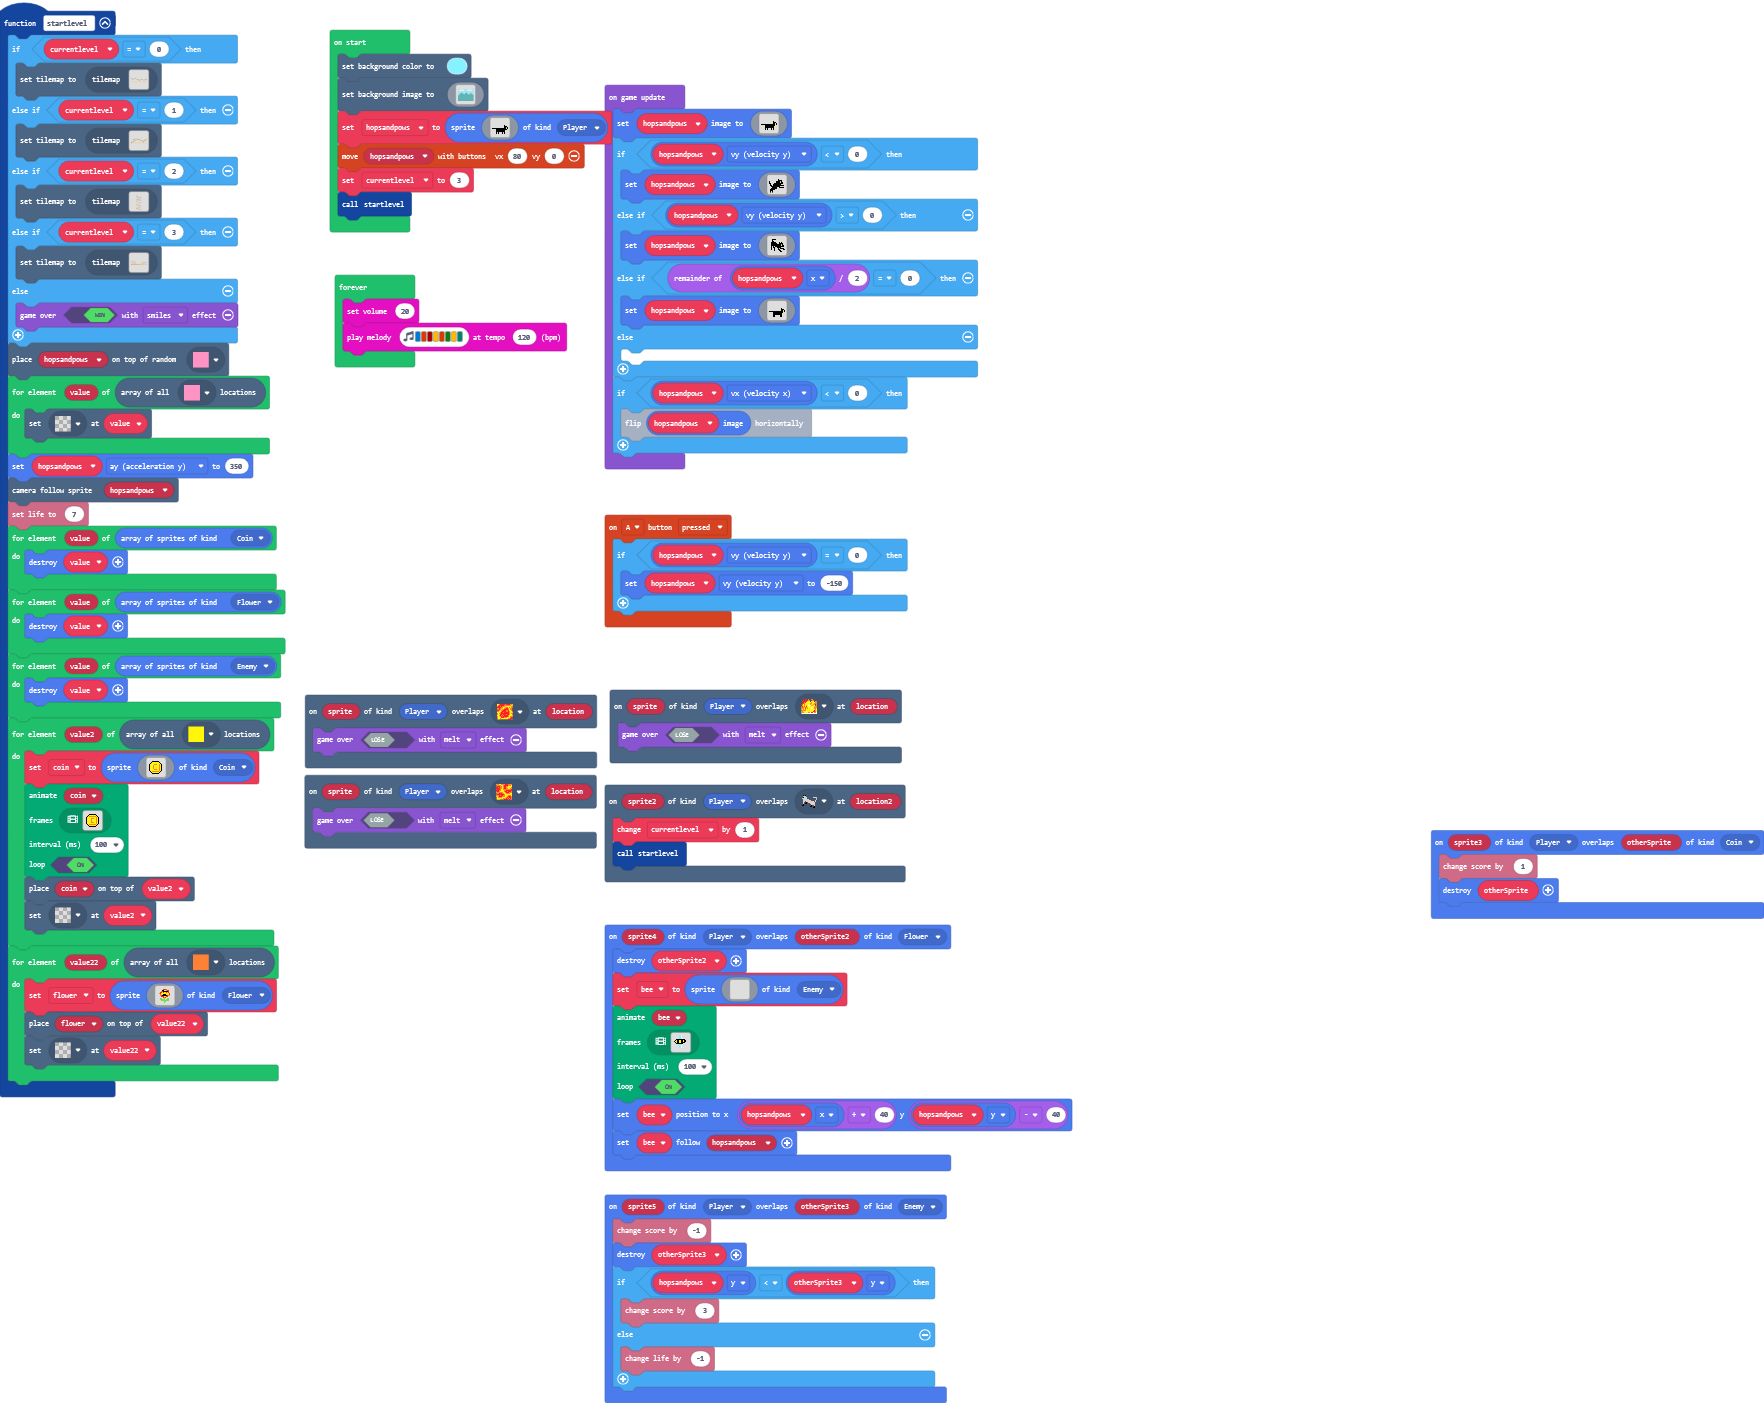
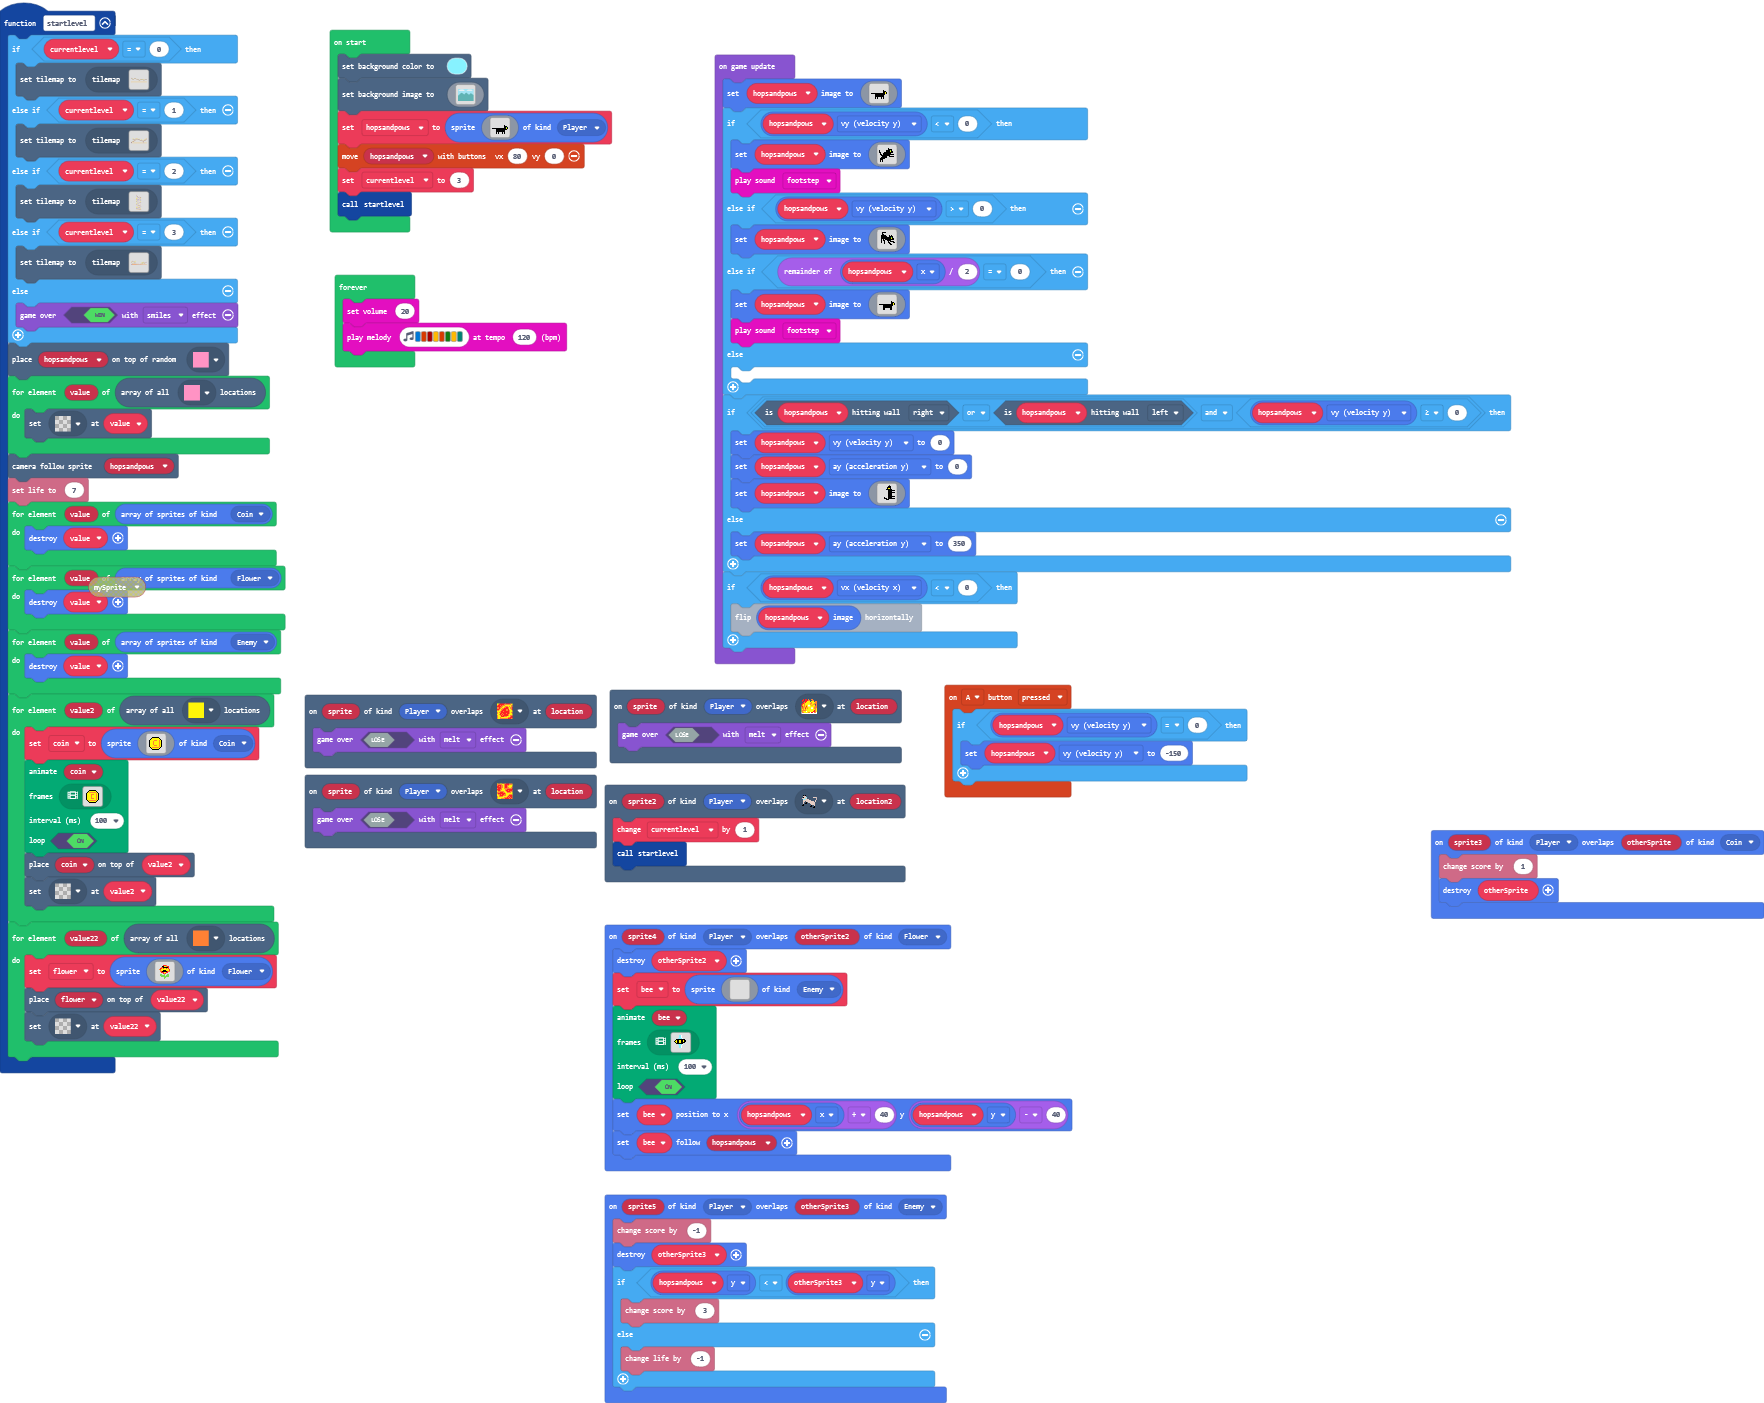
Update main.blocks, main.ts

Changed region(s): [[0.343, 0.0306, 0.873, 0.5823], [0.0, 0.3065, 0.1871, 0.7969], [0.2806, 0.5517, 0.3118, 0.5823]]

diff --git a/main.ts b/main.ts
@@ -159,7 +159,6 @@ function startlevel () {
     for (let value of tiles.getTilesByType(assets.tile`myTile4`)) {
         tiles.setTileAt(value, assets.tile`transparency16`)
     }
-    hopsandpows.ay = 350
     scene.cameraFollowSprite(hopsandpows)
     info.setLife(7)
     for (let value of sprites.allOfKind(SpriteKind.Coin)) {
@@ -600,6 +599,7 @@ game.onUpdate(function () {
             . f . f . . . . . . . . . . . . 
             . f . f . . . . . . . . . . . . 
             `)
+        music.footstep.play()
     } else if (hopsandpows.vy > 0) {
         hopsandpows.setImage(img`
             . . . . . . . . . . . . . . . . 
@@ -638,8 +638,33 @@ game.onUpdate(function () {
             . . . . . . . . . . . . . . . . 
             . . . . . . . . . . . . . . . . 
             `)
+        music.footstep.play()
     } else {
     	
+    }
+    if ((hopsandpows.isHittingTile(CollisionDirection.Right) || hopsandpows.isHittingTile(CollisionDirection.Left)) && hopsandpows.vy >= 0) {
+        hopsandpows.vy = 0
+        hopsandpows.ay = 0
+        hopsandpows.setImage(img`
+            . . . . . . . . . . f . . . . . 
+            . . . . . . . . . f f f . . . . 
+            . . . . . . . . f f f f . . . . 
+            . . . . . . . . f 5 5 f . . . . 
+            . . . . . . . f f f f f f . . . 
+            . . . . . . . . . f f f f f f f 
+            . . . . . . . . . f f f f . . . 
+            . . . . . . . . . f f f f f f f 
+            . . . . . . . . . f f f f . . . 
+            . . . . . . . . . f f f f . . . 
+            . . . . . . . . . f f f f . . . 
+            . . . . . . . . . f f f f f f f 
+            . . . . . f . . . f f f f . . . 
+            . . . . . f f f . f f f f f f f 
+            . . . . . . . f f f . . . . . . 
+            . . . . . . . . . . . . . . . . 
+            `)
+    } else {
+        hopsandpows.ay = 350
     }
     if (hopsandpows.vx < 0) {
         hopsandpows.image.flipX()
